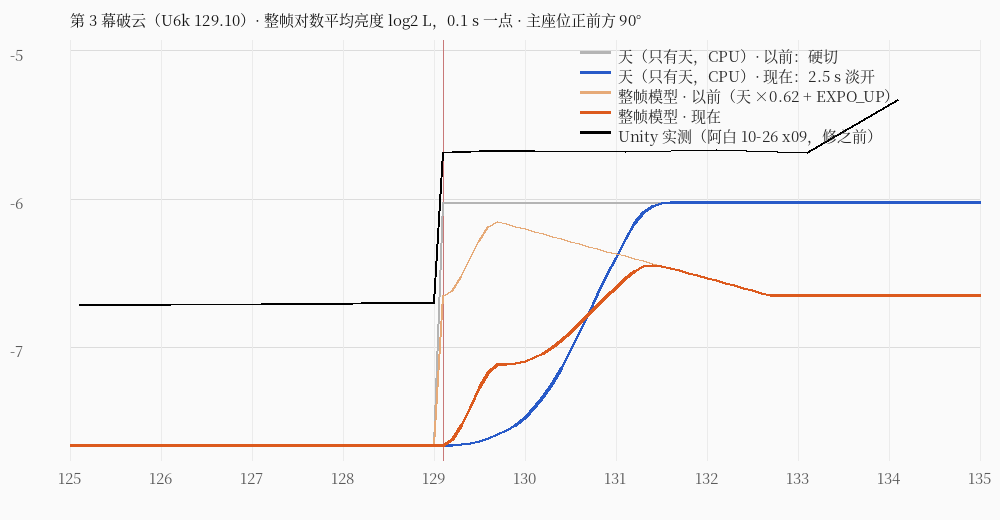
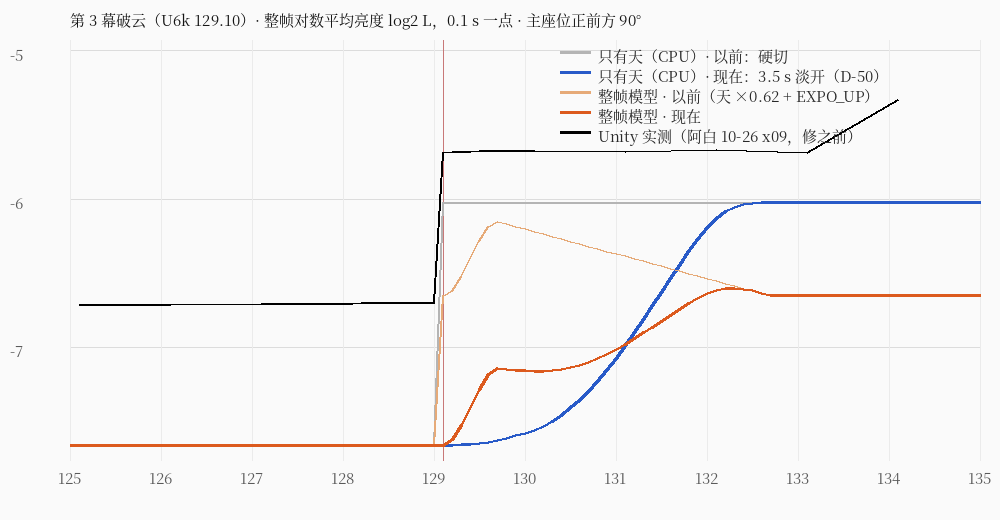
WIP: paused (D-50 #1 U6k break-out fade 3.5 s, curves, README; not merged to main)
Claude-Session: https://claude.ai/code/session_01Nf2iZx1zWD6Xt6BAtCCBfu

diff --git a/Sky/Tools~/render/make_presets.py b/Sky/Tools~/render/make_presets.py
@@ -342,7 +342,7 @@ TRANSITIONS = [   # bible §6.x; t = timeline seconds computed from the labels (
     dict(label='U1', t=[17.50, 37.50], what='雾 0.009 → 0.008（开车）', curve='smoothstep'),
     dict(label='U2b', t=[39.10, 79.10], what='雾 0.008 → 0.0025（灯尽 → 离地）', curve='smoothstep'),
     dict(label='U4h', t=[99.50, 107.50], what='雾 0 → 0.067（触云，云中雾色暖 #3A3530 → 冷 #4A5568 到 U5r）', curve='EV 线性'),
-    dict(label='U6k', t=[129.10, 131.60], what='雾 0.067 → 0.00035（破云）；月夜预设', curve='ease-out'),
+    dict(label='U6k', t=[129.10, 132.60], what='破云：阴雨夜 → 月夜预设，天、雾（→ 0.00035）、月、星同一条曲线 3.5 秒（D-50，原 2.5 秒）', curve='smoothstep 3.5 s'),
     dict(label='U6', t=[133.80, 163.80], what='→ 第 4 幕光带 0.0006；_Udon_FogModel 1 → 0（月夜的渐变 → 门的光带，同一段 smoothstep）', curve='smoothstep'),
     dict(label='U9 → U12', t=[179.55, 248.64], what='门内（门内会话定）', curve='—'),
     dict(label='剪 1', t=[248.64, 248.64], what='黑遮罩下硬切到晨：dawn 预设，0.00012，模型 B（A → B 在遮挡下）', curve='硬切'),
@@ -415,9 +415,10 @@ def driver_tables():
         dict(name='Lanbai_SkyDriver_Acts1to3', entries=[
             dict(preset='overcast_rain_night_town', t0=0.0, t1=cue_t('U1'), fade=0.0, label='0 → U1'),
             dict(preset='overcast_rain_night', t0=cue_t('U1'), t1=cue_t('U6k'), fade=10.0, label='U1 → U6k（钠光 10 秒淡掉）'),
-            # D-50 #1: the break-out is a 2.5 s fade (bible §6·3c: fog 0.067 -> 0.00035 in 2.5 s, EXPO_UP +0.5 EV over 0.6 s),
-            # not a cut: in Unity the cut (fade 0) was a +1.008 EV step in one frame at 129.1 (阿白's sweep x09, 10-26)
-            dict(preset='moon_night', t0=cue_t('U6k'), t1=cue_t('U6'), fade=2.5, label='U6k 破云：2.5 秒淡开（月夜）→ U6（门接手雾）')]),
+            # D-50 #1: the break-out is a 3.5 s fade (D-50 changes bible §6·3c's 2.5 s; sky, fog, moon, stars on one curve), not
+            # a cut: in Unity the cut (fade 0) was a +1.008 EV step in one frame at 129.1 (阿白's sweep x09, 10-26); 3.5 s
+            # keeps even a view full of sky (looking up at the moon) inside the comfort limits
+            dict(preset='moon_night', t0=cue_t('U6k'), t1=cue_t('U6'), fade=3.5, label='U6k 破云：3.5 秒淡开（月夜，D-50）→ U6（门接手雾）')]),
         dict(name='Lanbai_SkyDriver_Acts11to12', entries=[
             dict(preset='overcast_rain_night', t0=cue_t('F16'), t1=100000.0, fade=0.0, label='F16 白遮罩下 → 片尾')]),
     ]

diff --git a/Sky/Docs~/u6k/README_u6k.md b/Sky/Docs~/u6k/README_u6k.md
@@ -1,6 +1,6 @@
 # 第 3 幕破云（U6k 129.10）的跳变 · D-50 #1
 
-写的人：云端子会话「天空」，2026-10-31。**没在 Unity 里编译过、没在 Unity 里复测**（要阿白点 `蓝白/Sky/Build Sky` 重建驱动的表以后，按同一个 sweep 的 x09 再量）。
+写的人：云端子会话「天空」，2026-10-31（D-50 定 3.5 秒）。**没在 Unity 里编译过、没在 Unity 里复测**（要阿白点 `蓝白/Sky/Build Sky` 重建驱动的表以后，按同一个 sweep 的 x09 再量）。
 
 ## 复现：是谁跳的
 
@@ -9,12 +9,11 @@
 - 在 CPU 上跑真的 `Lanbai/Sky`（主座位正前方 90°、S3 调色、只有天）：这一切是 **+1.63 EV**。Unity 的整帧里有车厢，天占一部分，量到 +1.008（比例约 0.62），对得上。
 - **跳的是天空的驱动。** 另外：Unity 的曲线在 129.1 以后是平的，看不到 `EXPO_UP` +0.5 EV 的 0.6 秒升起和 3 秒衰减。说明 Unity 里这时 Director 的 `EXPO_UP` 包络没有起作用（或被别的写回了），这一条要总工程师查。
 
-## 修法（照圣经 §6·3c 的缓开）
+## 修法（D-50：3.5 秒缓开）
 
-`moon_night` 这一条的淡变 0 → **2.5 秒**（`Sky/Tools~/render/make_presets.py` 的 `driver_tables`，生成进 `Sky/SkyPresets.json` 的 `drivers`）。从 129.10 起 `overcast_rain_night.ApplyBlend(moon_night, smoothstep)`：
-- 天在 2.5 秒内淡开。这是立方图 → 程序化天的淡变，走 v1.3 的按方向混合，天顶先、地平线后，在对数空间里，没有扫过的边。
-- `_Udon_Fog` 0.009 → 0.00035 跟着同一条曲线走。圣经写的是雾 2.5 秒 ease-out；这里是驱动统一的 smoothstep，时长一样。
-- 月、星（`_Udon_StarGain` 0 → 0.015）一起淡进来。
+`moon_night` 这一条的淡变 0 → **3.5 秒**。总导演定的：破云时玩家会抬头看月亮，满眼是天，所以“只有天”那一列也要过舒适限；D-50 把圣经 §6·3c 的 2.5 秒改成 3.5 秒。改在 `Sky/Tools~/render/make_presets.py` 的 `driver_tables`，生成进 `Sky/SkyPresets.json` 的 `drivers`。从 129.10 到 132.60，`overcast_rain_night.ApplyBlend(moon_night, smoothstep)`：
+- 天按方向、在对数空间淡开，天顶先、地平线后，没有扫过的边。
+- 雾 `_Udon_Fog` 0.009 → 0.00035、月、星（`_Udon_StarGain` 0 → 0.015）走同一条曲线。
 
 ## 曲线（125 → 135 s，0.1 s 一点）
 
@@ -22,7 +21,7 @@
 
 | 列 | 是什么 |
 |---|---|
-| `sky_only_log2L_before_cut` / `after_fade2.5` | 只有天，CPU 上跑真的 shader，主座位正前方 90°、S3 |
+| `sky_only_log2L_before_cut` / `after_fade3.5` | 只有天：CPU 上跑真的 shader，主座位正前方 90°、S3，不含 EXPO_UP。等于整个画面都是天 |
 | `whole_frame_model_*` | 整帧模型：天的变化 × 0.62（Unity 量到的比例）+ 圣经的 `EXPO_UP`（+0.5 EV，0.6 s smoothstep 升，3 s 线性降）。**这是模型，不是 Unity 实测** |
 | `unity_sweep_x09_log2L` | 阿白 10-26 的 Unity 实测（修之前） |
 
@@ -31,11 +30,12 @@
 | | 0.25 s | 1 s | 2 s |
 |---|---|---|---|
 | Unity 实测（修之前） | 1.01 | 1.03 | 1.03 |
+| 只有天 · 修之前（硬切） | 1.63 | 1.63 | 1.63 |
 | 整帧模型 · 修之前（硬切 + EXPO_UP） | 1.05 | 1.51 | 1.51 |
-| **整帧模型 · 现在（2.5 s 淡开 + EXPO_UP）** | **0.25** | **0.59** | **1.13** |
-| 只有天 · 现在（不含 EXPO_UP） | 0.26 | 1.17 | 1.60 |
+| **只有天 · 现在（3.5 s）** | **0.18** | **0.88** | **1.45** |
+| **整帧模型 · 现在（3.5 s + EXPO_UP）** | **0.25** | **0.52** | **0.68** |
 
-“只有天”1 s 那一格 1.17 是整个画面都是天时的数（抬头看、没有车厢）；主座位的整帧 0.59。要整片天也 ≤ 1.0，淡变得 3.5 秒（只有天 0.18 / 0.88 / 1.45；整帧模型 0.25 / 0.52 / 0.68），比圣经的 2.5 秒长 1 秒。这一条请总导演定。
+（2.5 秒时只有天是 0.26 / 1.17 / 1.60，1 s 那格超。）
 
 ## 检查
 

diff --git a/Sky/STATUS.md b/Sky/STATUS.md
@@ -1,4 +1,6 @@
-2026-10-31 · 天空：**D-50 #1 破云的跳修了**（`Sky/Docs~/u6k/README_u6k.md`）。跳的是天空的驱动：129.10 从阴雨夜硬切到月夜（天 + 雾同一帧，只有天 +1.63 EV，Unity 整帧 +1.008）。现在 2.5 秒淡开（照圣经）；整帧模型（+ EXPO_UP）0.25 / 0.59 / 1.13 EV，限 0.5 / 1.0 / 1.8。Unity 实测里看不到 EXPO_UP 的升降，请总工程师查。要阿白重建驱动（Build Sky）后复测 x09。**没在 Unity 里编译过。**
+**2026-10-31 · 暂停（小楠决定，全片停工，恢复日期待定）。** 停在：D-50 #1 破云 3.5 秒淡开已改完、预设 / 曲线 / 序列测试都过，提交在 pkg/sky（WIP: paused），**还没合 main**；`README_Sky.md` §3.1 第 3 幕那一行（“破云在云里切”）还没改成 3.5 秒淡开。下一步：恢复后改那一行、把这个提交号交总导演合 main，阿白点 Build Sky 后复测 sweep x09；EXPO_UP 在 Unity 里不起作用那件在总工程师那。
+
+2026-10-31 · 天空：**D-50 #1 破云的跳修了**（`Sky/Docs~/u6k/README_u6k.md`）。跳的是天空的驱动：129.10 从阴雨夜硬切到月夜（天 + 雾同一帧，只有天 +1.63 EV，Unity 整帧 +1.008）。现在 **3.5 秒**淡开（D-50 定，原圣经 2.5 秒）：只有天 0.18 / 0.88 / 1.45 EV，整帧模型（+ EXPO_UP）0.25 / 0.52 / 0.68，限 0.5 / 1.0 / 1.8。Unity 实测里看不到 EXPO_UP 的升降，总工程师查。要阿白重建驱动（Build Sky）后复测 x09。**没在 Unity 里编译过。**
 
 2026-10-25 · 天空：**第 8 幕终审（天空这边）的 A1、A2、F1、F2、F7 改完了，可以终审了**（`Sky/Docs~/act8/README_act8.md` 最后一节；淡变每 0.25 s 一张 `act8_fade_986_994.png`）。F12 的淡变两头各按预设渲、按方向在对数空间混合，没有扫过的硬边，每个像素 10 → 90% ≥ 2.0 s；蓝时 +14° 的台阶平了；日线从日盘长出来（90 Hz 每帧 ≤ 0.004 EV）；第 9 幕往回拖会重写 blue_hour。检查：shader 0 错误（45 个文件）、C# 0 错误、门光带 1.19e-7、8 个预设全过、序列测试过、D-06 过。**没在 Unity 里编译过。**
 
